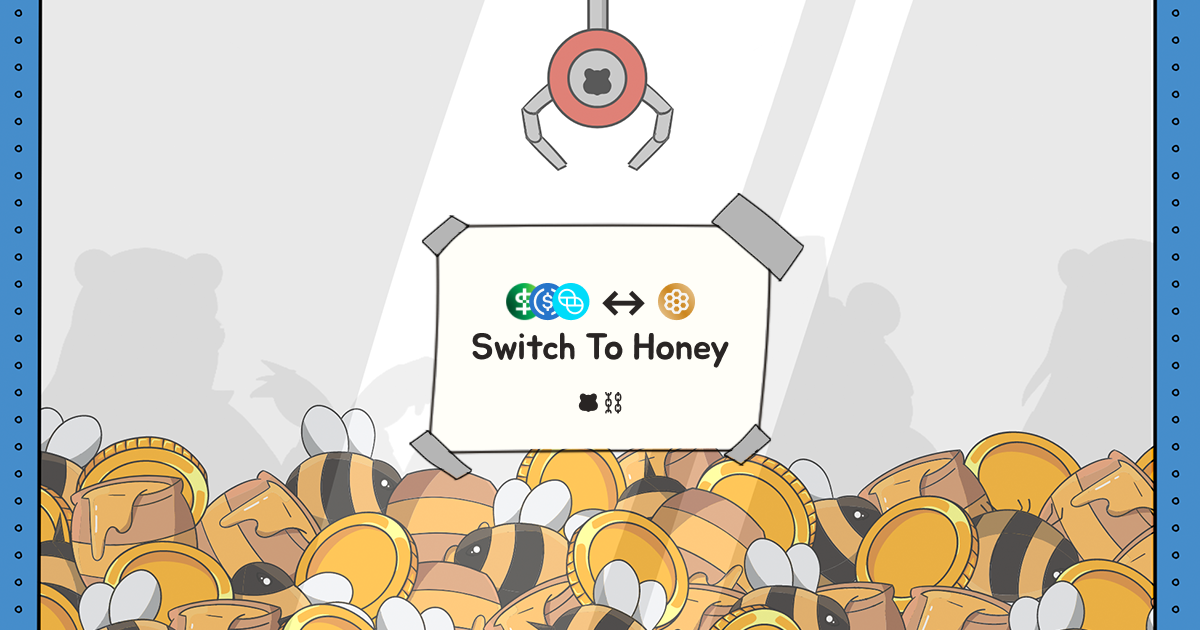
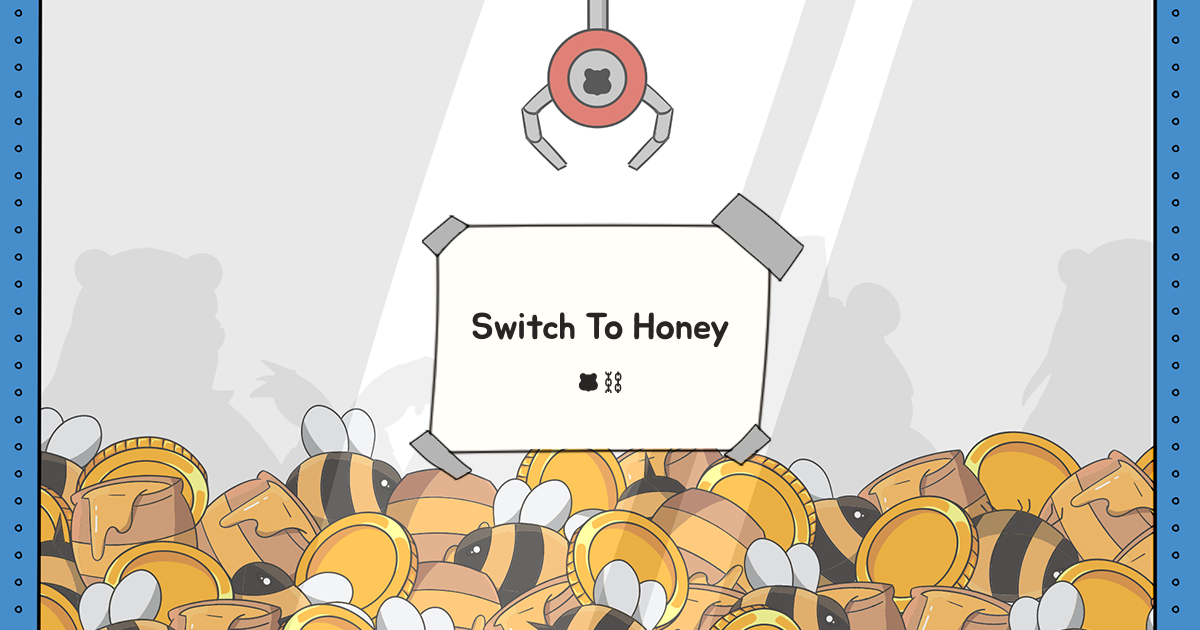
bugfix and polishing (#214)
* bugfix and polishing

* update honey opengraph

Changed region(s): [[0.37, 0.4524, 0.6167, 0.6635]]

diff --git a/apps/dex/src/components/swap-card.tsx b/apps/dex/src/components/swap-card.tsx
@@ -287,7 +287,7 @@ export function SwapCard({
                   />
                 </ul>
                 <div className="flex flex-col gap-2">
-                  {swapInfo && !isWrap && (
+                  {swapInfo && !isWrap ? (
                     <div className="flex w-full flex-col gap-1 rounded-lg bg-muted p-3">
                       <div className="flex w-full flex-row justify-between">
                         <p className="text-xs font-medium text-muted-foreground sm:text-sm">
@@ -306,8 +306,10 @@ export function SwapCard({
                         </p>
                       </div>
                     </div>
+                  ) : (
+                    false
                   )}
-                  {isConnected && exceedingBalance && !isBalancesLoading && (
+                  {isConnected && exceedingBalance && !isBalancesLoading ? (
                     <Alert
                       variant="destructive"
                       className="items-center justify-center"
@@ -317,16 +319,20 @@ export function SwapCard({
                         This amount exceeds your total balance
                       </AlertDescription>
                     </Alert>
+                  ) : (
+                    false
                   )}
-                  {error instanceof RouteNotFound && (
+                  {error instanceof RouteNotFound ? (
                     <Alert variant="destructive">
                       <AlertTitle>Error</AlertTitle>
                       <AlertDescription className="text-xs">
                         {error.message}
                       </AlertDescription>
                     </Alert>
+                  ) : (
+                    false
                   )}
-                  {showPriceImpact && (
+                  {showPriceImpact ? (
                     <Alert variant="destructive">
                       <AlertTitle>
                         {" "}
@@ -338,25 +344,30 @@ export function SwapCard({
                         {priceImpact?.toFixed(2)}%)
                       </AlertDescription>
                     </Alert>
+                  ) : (
+                    false
                   )}
                   {selectedFrom &&
-                    selectedTo &&
-                    swapInfo &&
-                    swapInfo.batchSwapSteps.length === 0 &&
-                    fromAmount &&
-                    fromAmount !== 0 && (
-                      <Alert variant="destructive">
-                        <AlertTitle>
-                          {" "}
-                          <Icons.tooltip className="mt-[-4px] inline h-4 w-4" />{" "}
-                          Route Not Found
-                        </AlertTitle>
-                        <AlertDescription className="text-xs">
-                          No route found for this swap. Please try a different
-                          pair.
-                        </AlertDescription>
-                      </Alert>
-                    )}
+                  selectedTo &&
+                  swapInfo &&
+                  swapInfo.batchSwapSteps.length === 0 &&
+                  fromAmount &&
+                  fromAmount !== 0 &&
+                  !isWrap ? (
+                    <Alert variant="destructive">
+                      <AlertTitle>
+                        {" "}
+                        <Icons.tooltip className="mt-[-4px] inline h-4 w-4" />{" "}
+                        Route Not Found
+                      </AlertTitle>
+                      <AlertDescription className="text-xs">
+                        No route found for this swap. Please try a different
+                        pair.
+                      </AlertDescription>
+                    </Alert>
+                  ) : (
+                    false
+                  )}
                 </div>
                 <ActionButton>{getSwapButton()}</ActionButton>
               </div>

diff --git a/apps/dex/src/hooks/useSwap.tsx b/apps/dex/src/hooks/useSwap.tsx
@@ -311,7 +311,13 @@ export const useSwap = ({ inputCurrency, outputCurrency }: ISwap) => {
     return undefined;
   }, [swapInfo]);
 
-  console.log("swapInfo", swapInfo);
+  useEffect(() => {
+    if (isWrap) {
+      if (fromAmount !== toAmount) {
+        setToAmount(fromAmount);
+      }
+    }
+  }, [isWrap]);
   return {
     setSwapKind,
     setSelectedFrom,

diff --git a/apps/perp/src/app/page.tsx b/apps/perp/src/app/page.tsx
@@ -84,7 +84,9 @@ export default async function Home() {
         <GeneralInfo tradingSummary={tradingSummary} />
         <Markets showBtn markets={markets} />
         <Tutorial />
-        <Documentation />
+        <div className="max-w-[1200px] self-center">
+          <Documentation />
+        </div>
       </div>
       <Footer />
     </div>

diff --git a/apps/lend/src/app/page.tsx b/apps/lend/src/app/page.tsx
@@ -23,7 +23,7 @@ export default function Page() {
         <Data />
       </div>
       <Markets />
-      <div className="container">
+      <div className="container max-w-[1200px]">
         <HowItWorks />
         <Documentation className="my-24" />
       </div>
